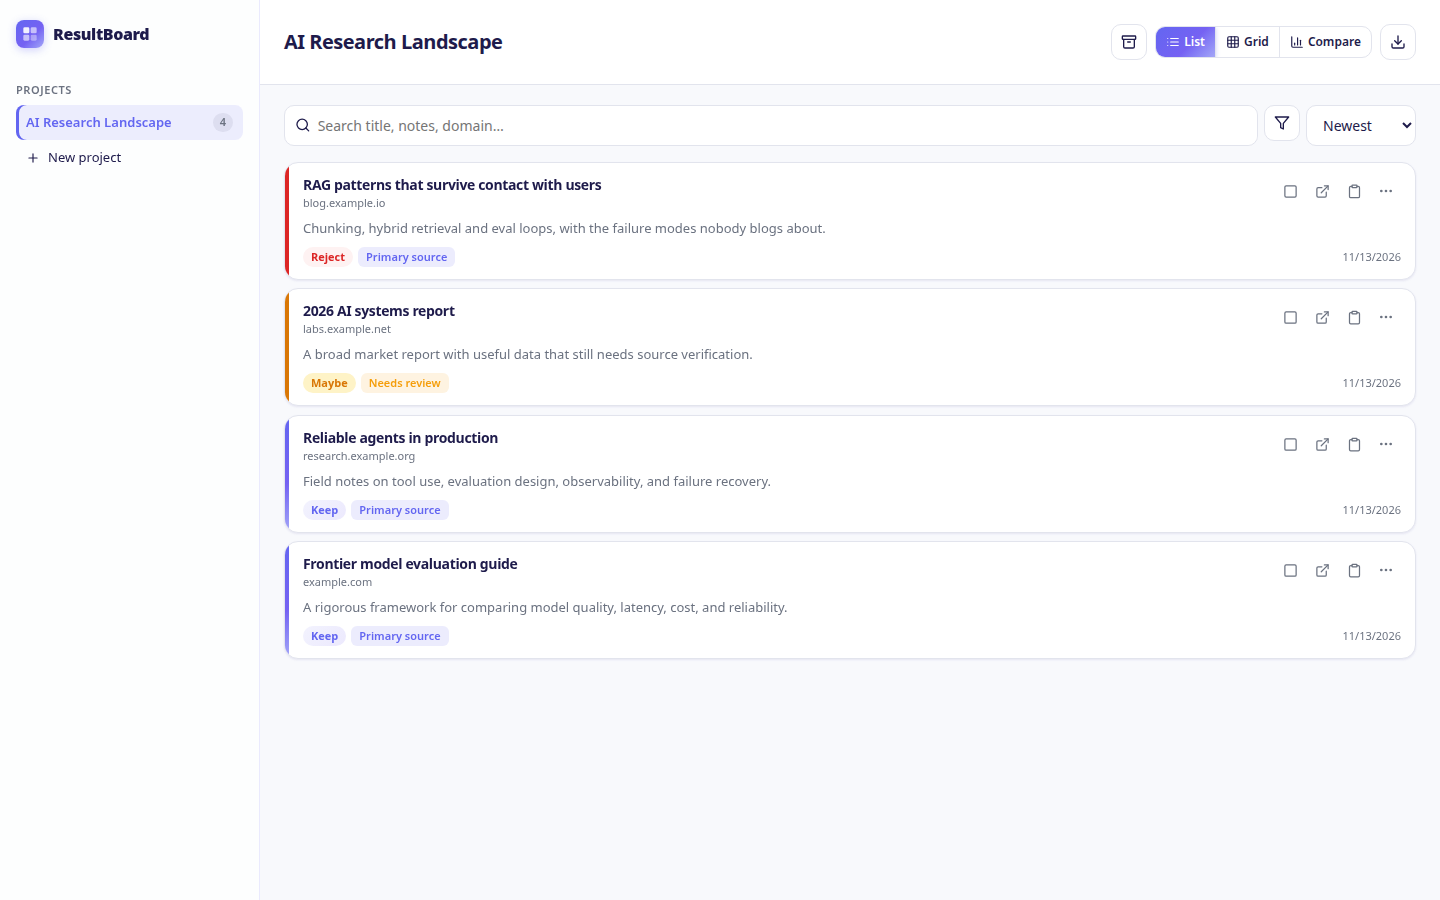
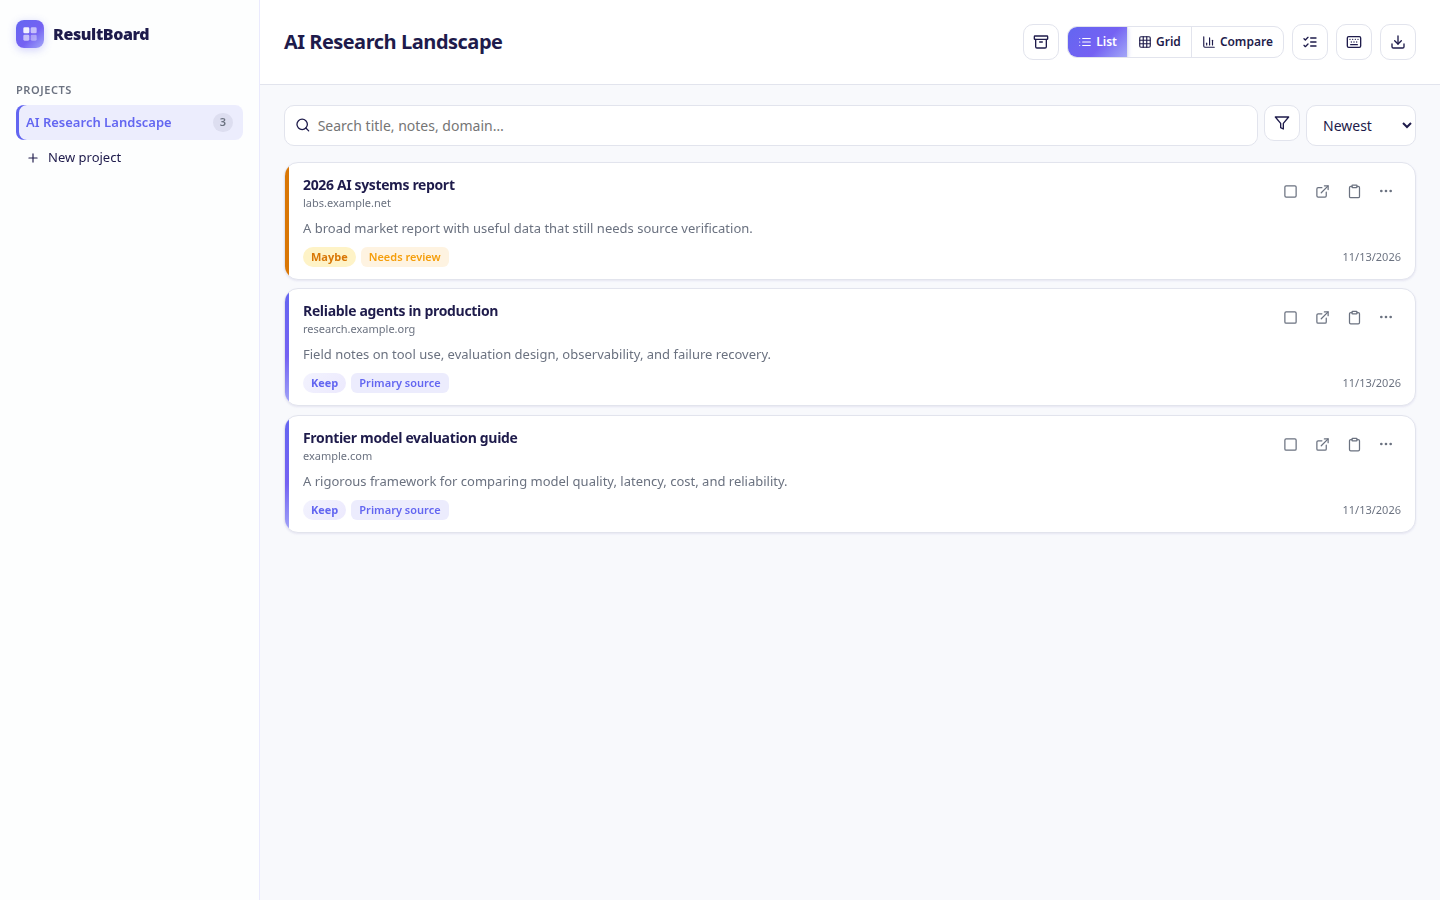
Docs: bulk actions, duplicate cleanup, shortcut help; refreshed board/panel screenshots

diff --git a/README.md b/README.md
@@ -21,6 +21,9 @@ Settings in dark mode with a rose accent — themes, accent colours, density and
 - Unlimited local projects with archive and restore
 - Keep, Maybe, and Reject controls on organic Google results
 - Notes, rejection reasons, tags, filters, sorting, and keyboard navigation
+- Bulk actions: select any number of results and classify, tag, or remove them together
+- Duplicate cleanup: find repeated saves of the same URL (e.g. after merging a backup) and remove them in one pass
+- Keyboard shortcut help built into the board and side panel — press `?`
 - List, responsive grid, and weighted comparison views
 - Per-result ratings for project-specific comparison criteria
 - Complete JSON backups with merge or replace import

diff --git a/CHANGELOG.md b/CHANGELOG.md
@@ -1,5 +1,13 @@
 # Changelog
 
+## Unreleased
+
+### Added
+
+- Bulk actions in the board and side panel: a select mode with a bulk bar to classify (Keep/Maybe/Reject), add or remove a tag, or remove many results at once, backed by new `BULK_UPDATE_TAGS` and `BULK_REMOVE_RECORDS` storage operations (bulk classify existed in storage but had no UI)
+- Duplicate cleanup: the board flags projects where the same URL is saved more than once (possible after a merge import) and offers a review dialog that keeps the earliest copy and removes the rest
+- Keyboard shortcut help dialog in the board and side panel (press `?` or the keyboard button), showing the currently configured bindings
+
 ## 0.3.0 - 2026-08-02
 
 ### Added
